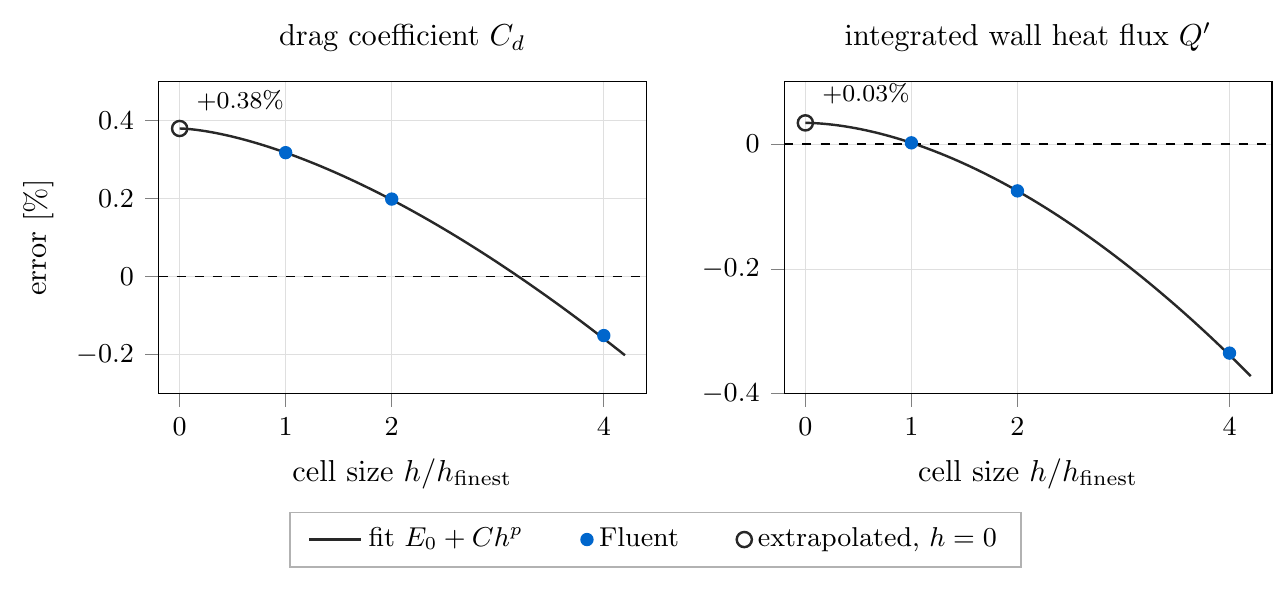
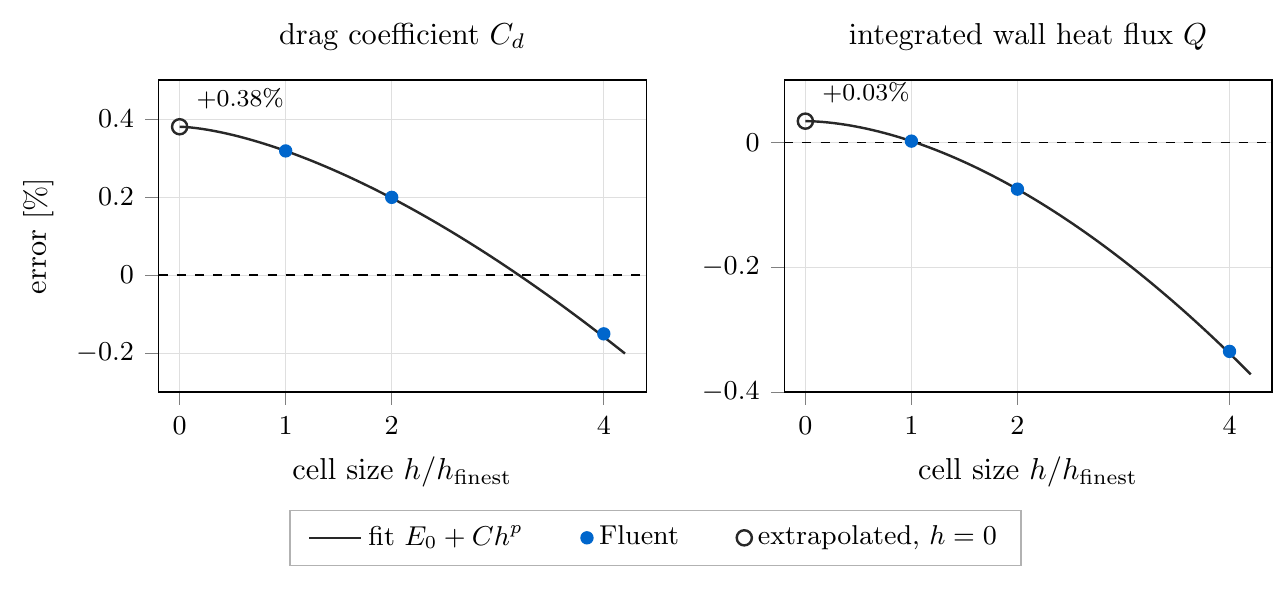
Flat plate: rename integrated heat flux to Q

diff --git a/_portfolio/fluent-flat-plate.md b/_portfolio/fluent-flat-plate.md
@@ -122,7 +122,7 @@ $$q_w = -k \left.\frac{\partial T}{\partial y}\right|_{y=0}.$$
 It is the cooling rate, the number an engineer designs with. Its integral over the plate is the
 total heat transfer, per unit depth of the plate:
 
-$$Q' = \int_0^L q_w\,\mathrm{d}x \quad \mathrm{W/m}.$$
+$$Q = \int_0^L q_w\,\mathrm{d}x \quad \mathrm{W/m}.$$
 
 Because $$q_w$$ depends on the temperature gradient at the wall, it tests the energy equation.
 With the Pohlhausen solution, the exact value is
@@ -194,14 +194,14 @@ its negative mesh error cancels part of the positive $$E_0$$; this is why the er
 
 ![Convergence of the plate drag and the integrated heat flux](/images/flatplate/flatplate_integrated.png)
 
-*Error in $$C_d$$ and $$Q'$$ against the cell size, relative to the finest mesh. The curve
+*Error in $$C_d$$ and $$Q$$ against the cell size, relative to the finest mesh. The curve
 $$E_0 + C h^p$$ passes through the three meshes; the circle is its value at zero cell size.*
 {: .caption}
 
 | Quantity | Coarser | Results above | Finer | $$p$$ | $$E_0$$ | GCI |
 |---|---|---|---|---|---|---|
 | Plate drag coefficient $$C_d$$ | $$-0.151\%$$ | $$+0.199\%$$ | $$+0.318\%$$ | 1.56 | $$+0.380\%$$ | 0.077% |
-| Integrated wall heat flux $$Q'$$ | $$-0.335\%$$ | $$-0.075\%$$ | $$+0.002\%$$ | 1.77 | $$+0.034\%$$ | 0.040% |
+| Integrated wall heat flux $$Q$$ | $$-0.335\%$$ | $$-0.075\%$$ | $$+0.002\%$$ | 1.77 | $$+0.034\%$$ | 0.040% |
 | $$C_f$$, average over $$x \ge 0.1$$ | $$-0.868\%$$ | $$-0.564\%$$ | $$-0.481\%$$ | 1.88 | $$-0.450\%$$ | 0.039% |
 | $$q_w$$, average over $$x \ge 0.1$$ | $$-0.614\%$$ | $$-0.303\%$$ | $$-0.210\%$$ | 1.74 | $$-0.170\%$$ | 0.050% |
 
@@ -220,7 +220,7 @@ an effect of the outlet at the end of the plate. A larger domain would separate 
 | Wall heat flux error, $$x \geq 0.1$$ | $$\lvert E \rvert < 3\%$$ | $$-0.27\%$$ to $$-0.54\%$$ | pass |
 | Velocity profile error, 5 stations | $$< 1\%$$ | $$0.32\%$$ | pass |
 | Plate drag coefficient | — | $$4.2086 \times 10^{-3}$$ ($$+0.20\%$$) | |
-| Integrated wall heat flux $$Q'$$ | — | 130.58 W/m ($$-0.07\%$$) | |
+| Integrated wall heat flux $$Q$$ | — | 130.58 W/m ($$-0.07\%$$) | |
 
 ### Issues and possible improvements
 
